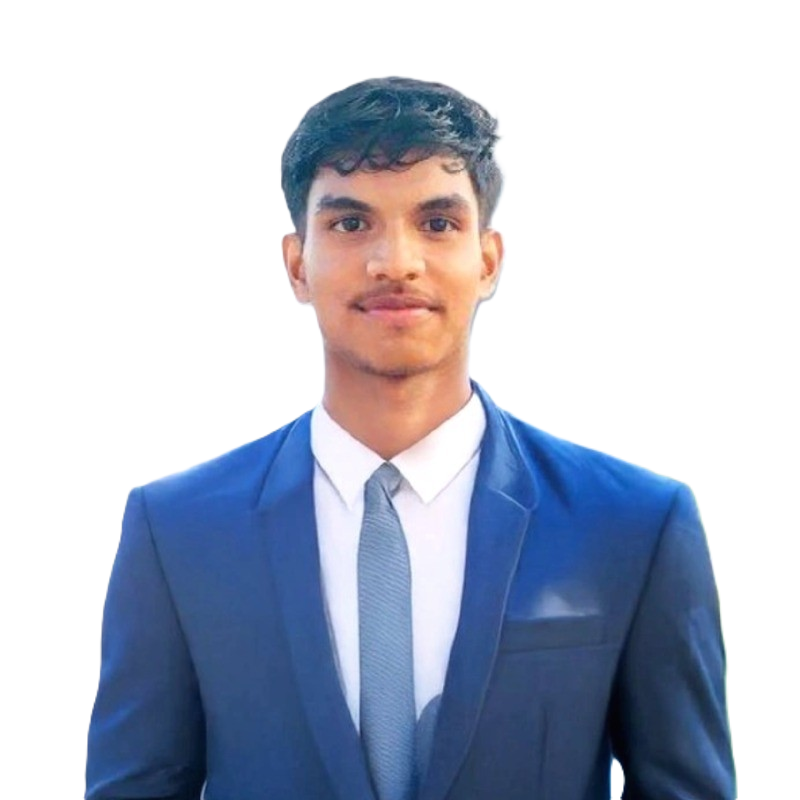
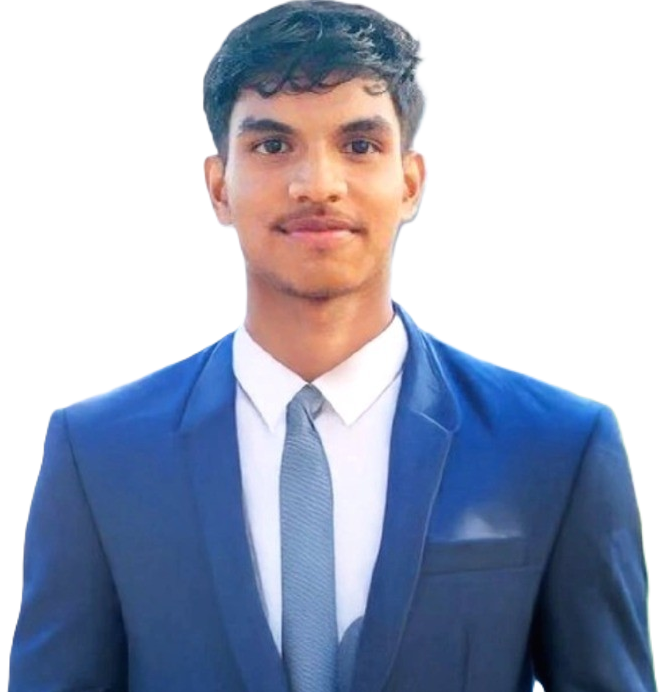
header updated

diff --git a/frontend/src/components/Header.jsx b/frontend/src/components/Header.jsx
@@ -1,5 +1,3 @@
-// components/Header.jsx
-
 import { useState, useEffect } from 'react';
 import logo from '../assets/logo.png';
 
@@ -8,7 +6,6 @@ export default function Header({ onOpenForm }) {
   const [mobileOpen, setMobileOpen] = useState(false);
   const [activeId,   setActiveId]   = useState('');
 
-  /* Scroll → shrink header + track active section */
   useEffect(() => {
     const SECTION_IDS = ['how-it-works', 'features', 'team'];
 
@@ -26,14 +23,12 @@ export default function Header({ onOpenForm }) {
     return () => window.removeEventListener('scroll', onScroll);
   }, []);
 
-  /* Close drawer on desktop resize */
   useEffect(() => {
     const onResize = () => { if (window.innerWidth >= 768) setMobileOpen(false); };
     window.addEventListener('resize', onResize);
     return () => window.removeEventListener('resize', onResize);
   }, []);
 
-  /* Smooth-scroll to section — accounts for sticky header height */
   const scrollTo = (e, href) => {
     e.preventDefault();
     setMobileOpen(false);
@@ -58,7 +53,7 @@ export default function Header({ onOpenForm }) {
       <header className={`hdr ${scrolled ? 'hdr--scrolled' : ''}`}>
         <div className="hdr__inner">
 
-          {/* ── Logo ─────────────────────────────────────── */}
+          { }
           <a
             href="/"
             className="hdr__brand"
@@ -77,7 +72,7 @@ export default function Header({ onOpenForm }) {
             </div>
           </a>
 
-          {/* ── Desktop nav ──────────────────────────────── */}
+          { }
           <nav className="hdr__nav" aria-label="Primary">
             {NAV_LINKS.map(({ label, href }) => (
               <a
@@ -91,7 +86,7 @@ export default function Header({ onOpenForm }) {
             ))}
           </nav>
 
-          {/* ── Desktop right actions ────────────────────── */}
+          { }
           <div className="hdr__actions">
             <div className="hdr__divider" />
             <span className="hdr__beta-pill">Beta</span>
@@ -107,7 +102,7 @@ export default function Header({ onOpenForm }) {
             )}
           </div>
 
-          {/* ── Mobile hamburger ─────────────────────────── */}
+          { }
           <button
             className={`hdr__burger${mobileOpen ? ' hdr__burger--open' : ''}`}
             onClick={() => setMobileOpen(o => !o)}
@@ -118,7 +113,7 @@ export default function Header({ onOpenForm }) {
           </button>
         </div>
 
-        {/* ── Mobile drawer ────────────────────────────────── */}
+        { }
         <div className={`hdr__drawer${mobileOpen ? ' hdr__drawer--open' : ''}`}>
           <nav className="hdr__drawer-nav">
             {NAV_LINKS.map(({ label, href }) => (
@@ -176,7 +171,6 @@ const CSS = `
   gap: 8px;
 }
 
-/* Brand */
 .hdr__brand {
   display: flex; align-items: center; gap: 11px;
   text-decoration: none; flex-shrink: 0;
@@ -214,7 +208,6 @@ const CSS = `
   font-size: 0.67rem; font-weight: 500; color: #4a6080; letter-spacing: 0.02em;
 }
 
-/* Desktop nav */
 .hdr__nav { display: flex; align-items: center; gap: 2px; margin-left: 28px; }
 .hdr__nav-link {
   position: relative;
@@ -234,7 +227,6 @@ const CSS = `
   background: #c9a84c;
 }
 
-/* Right actions */
 .hdr__actions { margin-left: auto; display: flex; align-items: center; gap: 14px; flex-shrink: 0; }
 .hdr__divider { width: 1px; height: 22px; background: rgba(255,255,255,0.08); flex-shrink: 0; }
 .hdr__beta-pill {
@@ -261,7 +253,6 @@ const CSS = `
 }
 .hdr__cta:active { transform: translateY(0); opacity: 1; }
 
-/* Hamburger */
 .hdr__burger {
   display: none; flex-direction: column; justify-content: center;
   gap: 5px; width: 38px; height: 38px; padding: 8px; margin-left: auto;
@@ -282,7 +273,6 @@ const CSS = `
 .hdr__burger--open span:nth-child(2) { opacity: 0; transform: scaleX(0); }
 .hdr__burger--open span:nth-child(3) { transform: translateY(-6.5px) rotate(-45deg); width: 100%; }
 
-/* Mobile drawer */
 .hdr__drawer {
   overflow: hidden; max-height: 0;
   transition: max-height 0.32s cubic-bezier(0.4,0,0.2,1);
@@ -313,7 +303,6 @@ const CSS = `
 }
 .hdr__drawer-cta:hover { opacity: 0.88; }
 
-/* Responsive */
 @media (max-width: 860px)  { .hdr__nav { display: none; } }
 @media (max-width: 640px)  {
   .hdr__nav { display: none; }

diff --git a/backend/api.py b/backend/api.py
@@ -8,7 +8,6 @@ CORS(app)
 GROQ_API_KEY = "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"
 client = Groq(api_key=GROQ_API_KEY)
 
-
 @app.route("/api/generate", methods=["POST"])
 def generate():
     data = request.json
